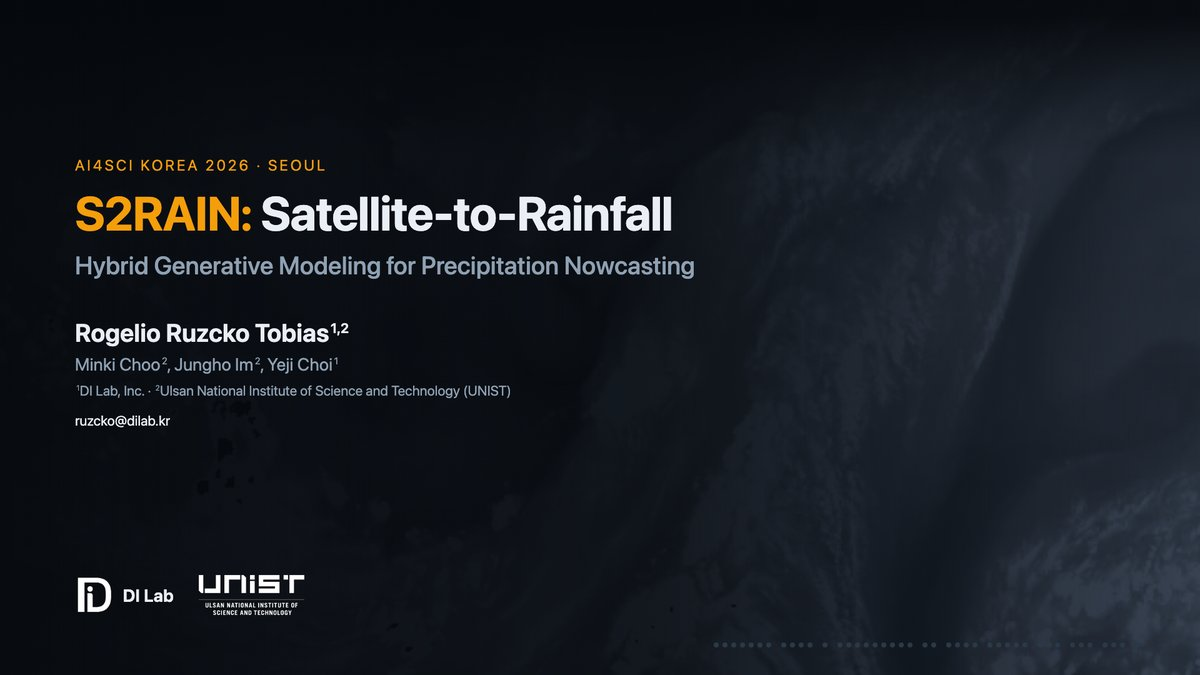
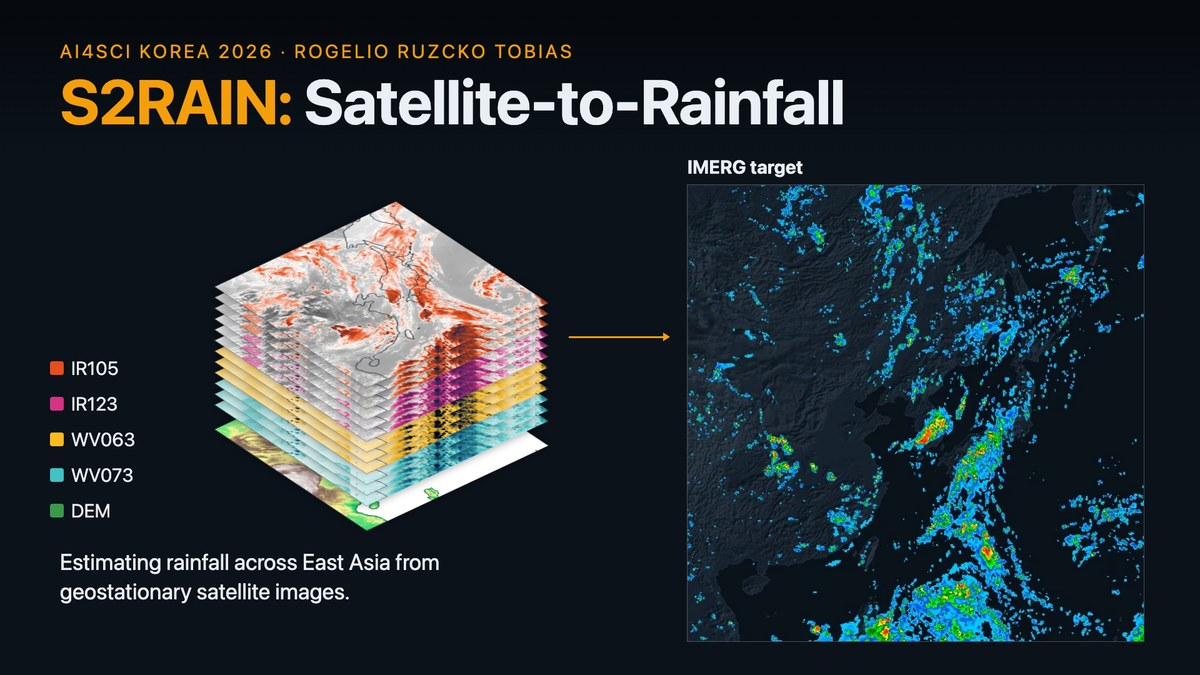
Use the stack-to-IMERG card as the S2RAIN link preview
The preview and the talks-page thumbnail now show the input stack
pointing to the IMERG target, with the title and a one-line caption,
instead of the title slide.

diff --git a/index.html b/index.html
@@ -34,7 +34,7 @@
   <h1>Talks</h1>
   <ul>
     <li>
-      <a href="s2rain-ai4sci-2026/"><img src="s2rain-ai4sci-2026/preview.jpg" alt="Title slide: S2RAIN, Satellite-to-Rainfall"></a>
+      <a href="s2rain-ai4sci-2026/"><img src="s2rain-ai4sci-2026/preview.jpg" alt="S2RAIN: a stack of satellite image layers with an arrow to an IMERG rainfall map of East Asia"></a>
       <div>
         <a class="title" href="s2rain-ai4sci-2026/">S2RAIN: Satellite-to-Rainfall</a>
         <div class="meta">Hybrid generative modeling for precipitation nowcasting</div>
